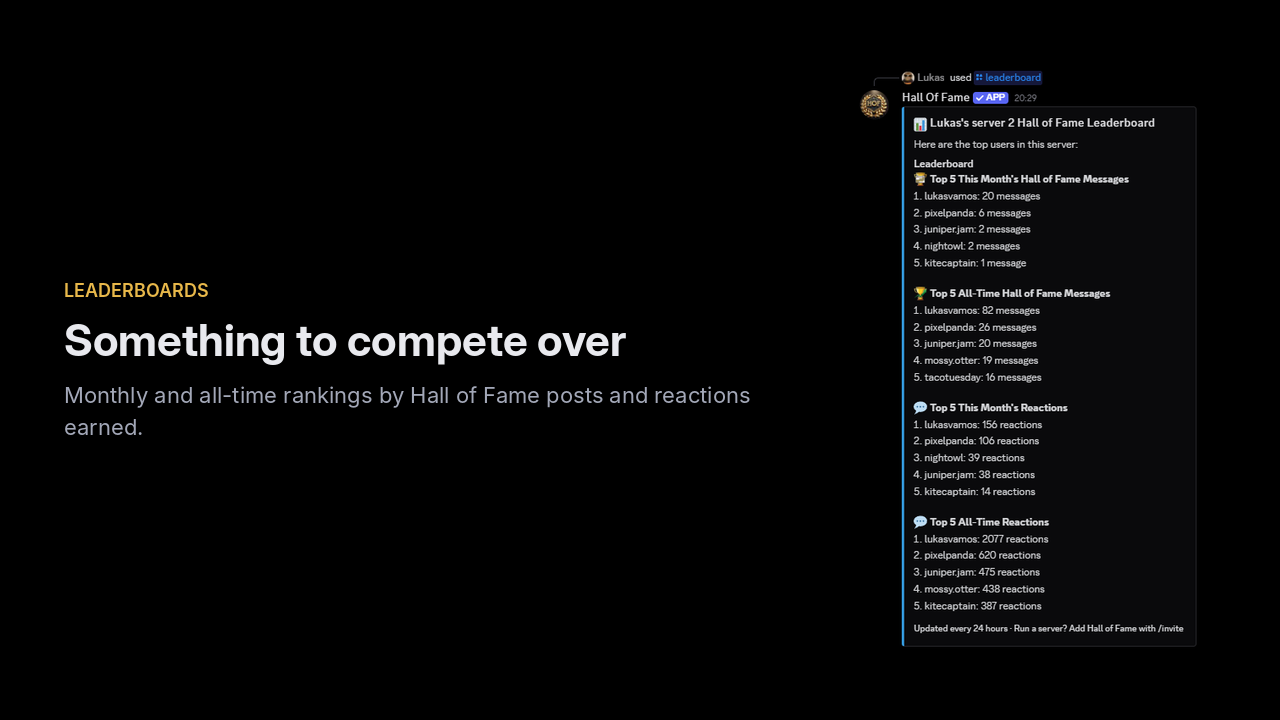
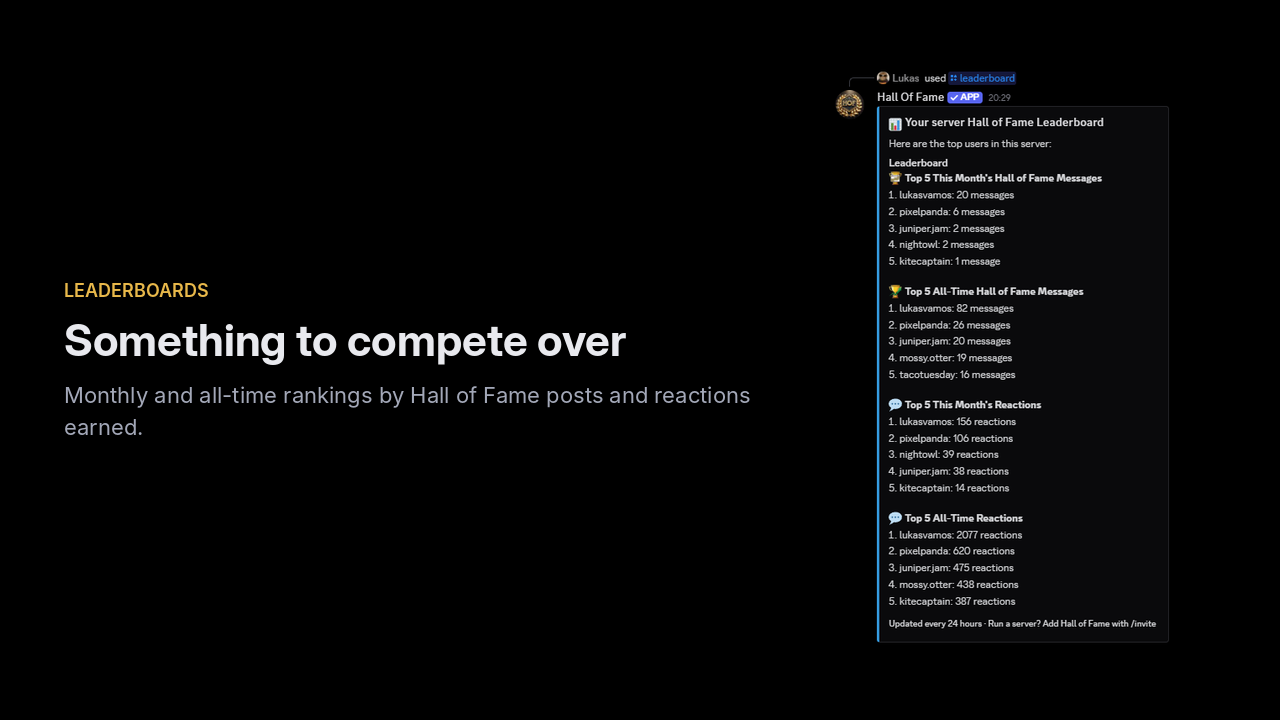
Use the leaderboard from the renamed test server in the listing images
The title now reads "Your server" instead of the test server's old name. Only the board post is left
to retake.

Claude-Session: https://claude.ai/code/session_01Pu1eX2p78U3mGnTfrx4Sgm

Changed region(s): [[0.6562, 0.0917, 0.9375, 0.8861]]

diff --git a/Assets/app_directory.md b/Assets/app_directory.md
@@ -147,9 +147,8 @@ How they are made, so they can be redone the same way when the layout changes:
 - Each one is placed on a 1280×720 black canvas with a short caption on the left (Inter, the landing
   page's gold `#e8b84a` for the label), so the carousel shows them all at the same size.
 
-Still to redo: the leaderboard, since the test server's old name "Lukas's server 2" shows in its
-title (the server is now called "Your server"), and the board post, which should have more than one
-reaction.
+The leaderboard's "1 messages" is shown as "1 message", which is what the bot writes once its plural is
+fixed. Still to redo: the board post, which should have more than one reaction.
 
 <br>
 
